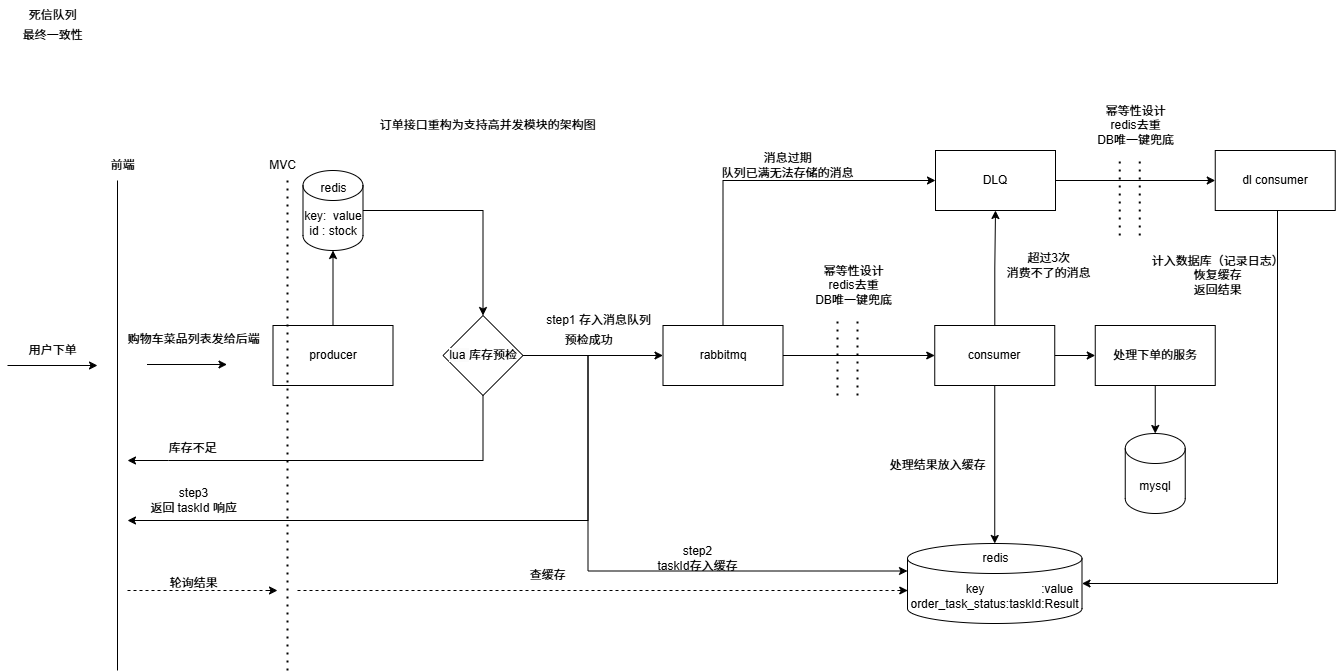
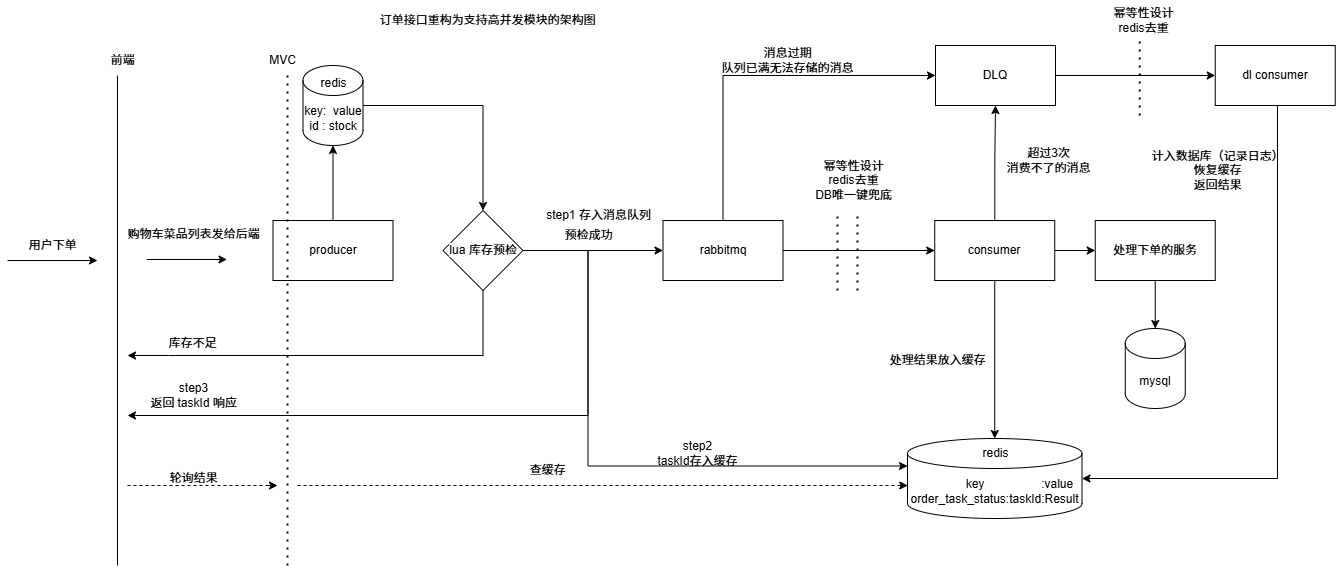
实现了死信消费者的逻辑
1，消费者处理逻辑：批量消费数据，恢复库存，返回结果，批量插入数据库，校验幂等性。
2，修改bug，由于幂等性，消息列表可能为空，加入列表非空判断防止动态sql拼接错误
3，探索利用spring重试消息机制失败。改为redis值自增+消费者端消息重发 的方案实现消息的重试。
4，对生产者的发送消息的方法做了重载
5，redis中添加了消息队列重试的常量键和幂等性键

diff --git a/sky-server/src/main/java/com/sky/mq/consumer/DeadLetterConsumer.java b/sky-server/src/main/java/com/sky/mq/consumer/DeadLetterConsumer.java
@@ -1,0 +1,123 @@
+package com.sky.mq.consumer;
+
+import com.alibaba.fastjson.JSON;
+import com.rabbitmq.client.Channel;
+import com.sky.dto.CartItemDTO;
+import com.sky.dto.OrdersSubmitDTO;
+import com.sky.entity.MqReturnedMessage;
+import com.sky.mapper.MqReturnedMessageMapper;
+import com.sky.result.Result;
+import com.sky.service.OrderService;
+import lombok.extern.slf4j.Slf4j;
+import org.springframework.amqp.core.Message;
+import org.springframework.amqp.rabbit.annotation.RabbitListener;
+import org.springframework.amqp.rabbit.core.RabbitTemplate;
+import org.springframework.beans.factory.annotation.Autowired;
+import org.springframework.data.redis.core.RedisTemplate;
+import org.springframework.stereotype.Component;
+
+import java.io.IOException;
+import java.time.Duration;
+import java.util.ArrayList;
+import java.util.List;
+import java.util.Map;
+
+import static com.sky.constant.RabbitMQConstant.*;
+import static com.sky.constant.RedisKeyConstant.*;
+
+@Component
+@Slf4j
+public class DeadLetterConsumer {
+    @Autowired
+    private RedisTemplate<String, String> strRedisTemplate;
+    @Autowired
+    private RedisTemplate<String, Integer> redisTemplate;
+    @Autowired
+    private OrderService orderService;
+    @Autowired
+    private MqReturnedMessageMapper mqReturnedMessageMapper;
+    @Autowired
+    private RabbitTemplate rabbitTemplate;
+
+    private static final Duration TTL = Duration.ofMinutes(10);
+    private static final Integer MAX_RETRY_COUNT = 3;
+
+    @RabbitListener(queues = DEAD_LETTER_QUEUE, containerFactory = "batchRabbitListenerContainerFactory")
+    public void consumeDeadLetterBatch(List<Message> messages, Channel channel) throws IOException {
+        if (messages == null || messages.isEmpty()) {
+            return;
+        }
+
+        long lastDeliveryTag = 0;
+        List<MqReturnedMessage> mqReturnedMessages = new ArrayList<>();
+
+        for (Message message : messages) {
+            String messageId = message.getMessageProperties().getMessageId();
+            String redisKey = DLQ_DEDUPLICATE_PREFIX_KEY + messageId;
+            String retryCountKey = DLQ_RETRY_KEY + messageId;
+
+            try {
+                // 1. 幂等性预检
+                Boolean isFirstConsume = strRedisTemplate.opsForValue().setIfAbsent(redisKey, "1", TTL);
+                redisTemplate.opsForValue().setIfAbsent(retryCountKey, 0, TTL);
+                if (Boolean.FALSE.equals(isFirstConsume)) {
+                    System.out.println("死信消息已处理过，跳过: " + messageId);
+                    continue;
+                }
+
+                // 2. 执行业务逻辑（恢复库存、记录结果等）
+                String body = new String(message.getBody());
+                List<Map<String, ?>> xDeathHeader = message.getMessageProperties().getXDeathHeader();
+                Map<String, ?> map = xDeathHeader.get(0);
+                String reason = (String) map.get("reason");
+                String queue = (String) map.get("queue");
+
+                MqReturnedMessage mqReturnedMessage = MqReturnedMessage.builder()
+                        .messageId(messageId)
+                        .exchange("原队列：" + queue)
+                        .routingKey("来自死信队列的消息")
+                        .replyCode(300)
+                        .replyText(reason)
+                        .messageBody(body)
+                        .build();
+                mqReturnedMessages.add(mqReturnedMessage);
+
+                // 恢复库存
+                OrdersSubmitDTO ordersSubmitDTO = JSON.parseObject(body, OrdersSubmitDTO.class);
+                List<CartItemDTO> cartItems = ordersSubmitDTO.getCartItems();
+                orderService.restoreCacheStock(cartItems);
+
+                // 返回消息处理结果
+                String resultString = JSON.toJSONString(Result.error("下单失败，请重试"));
+                strRedisTemplate.opsForValue().set(ORDER_TASK_RESULT_PREFIX_KEY + messageId, resultString, TTL);
+
+            } catch (Exception e) {
+                // 3. 发生异常，获取当前消息的重试次数
+                Long retryCount = redisTemplate.opsForValue().increment(retryCountKey);
+                redisTemplate.expire(retryCountKey, TTL);
+
+                if (retryCount != null && retryCount < MAX_RETRY_COUNT) {
+                    // 临时性故障：删除幂等记录，允许下次重试
+                    strRedisTemplate.delete(redisKey);
+                    rabbitTemplate.send(DEAD_LETTER_EXCHANGE, DEAD_LETTER_ROUTING_KEY, message);
+                    System.err.println(String.format("消息 %s 处理失败，第 %d 次重试", messageId, retryCount));
+                } else {
+                    // 永久性故障：保留幂等记录，直接 ACK，防止死循环！
+                    System.err.println(String.format("消息 %s 重试超限，确认为永久失败，直接丢弃并记录日志", messageId));
+
+                }
+            } finally {
+                lastDeliveryTag = message.getMessageProperties().getDeliveryTag();
+            }
+        }
+
+        // 批量落库
+        if (mqReturnedMessages != null && !mqReturnedMessages.isEmpty()) {
+            mqReturnedMessageMapper.insertBatch(mqReturnedMessages);
+        }
+
+        // 4. 批量手动 ACK
+        // 无论是处理成功、重复消费，还是重试超限的“死刑”消息，都统一在这里确认
+        channel.basicAck(lastDeliveryTag, true);
+    }
+}

diff --git a/sky-server/src/main/java/com/sky/mq/consumer/OrderSubmitConsumer.java b/sky-server/src/main/java/com/sky/mq/consumer/OrderSubmitConsumer.java
@@ -5,6 +5,7 @@ import com.rabbitmq.client.Channel;
 import com.sky.context.BaseContext;
 import com.sky.dto.OrderSubmitBaseDTO;
 import com.sky.mapper.IdempotencyMapper;
+import com.sky.mq.producer.OrderSubmitProducer;
 import com.sky.result.Result;
 import com.sky.service.OrderService;
 import com.sky.vo.OrderSubmitVO;
@@ -22,10 +23,8 @@ import java.io.IOException;
 import java.time.Duration;
 import java.util.concurrent.TimeUnit;
 
-import static com.sky.constant.RabbitMQConstant.CONSUMER_ORDER_HEADER;
-import static com.sky.constant.RabbitMQConstant.ORDER_QUEUE;
-import static com.sky.constant.RedisKeyConstant.DEDUPLICATE_PREFIX_KEY;
-import static com.sky.constant.RedisKeyConstant.ORDER_TASK_RESULT_PREFIX_KEY;
+import static com.sky.constant.RabbitMQConstant.*;
+import static com.sky.constant.RedisKeyConstant.*;
 
 @Component
 @Slf4j
@@ -36,7 +35,11 @@ public class OrderSubmitConsumer {
     @Autowired
     private RedisTemplate<String, String> strRedisTemplate;
     @Autowired
+    private RedisTemplate<String, Integer> redisTemplate;
+    @Autowired
     private IdempotencyMapper idempotencyMapper;
+    @Autowired
+    private OrderSubmitProducer orderSubmitProducer;
 
     private static final Duration TTL = Duration.ofMinutes(10);
 
@@ -62,7 +65,9 @@ public class OrderSubmitConsumer {
             log.warn("调试信息，根据幂等性，Redis 拦截消费过的消息: {}", messageId);
             channel.basicAck(deliveryTag, false);
         } else {
+            String retryKey = ORDER_QUEUE_RETRY_KEY + messageId;
             try {
+                redisTemplate.opsForValue().setIfAbsent(retryKey, -1, TTL);
                 // 数据库拦截处理过的消息
                 idempotencyMapper.insert(messageId);
                 this.processOrder(new String(message.getBody()), userId, messageId);
@@ -74,12 +79,20 @@ public class OrderSubmitConsumer {
                 channel.basicAck(deliveryTag, false);
             } catch (Exception e) {
                 log.error("调试信息：业务处理失败: ", e);
-                channel.basicNack(deliveryTag, false, true);
+                Long retryCount = redisTemplate.opsForValue().increment(retryKey);
+                if (retryCount > 3) {
+                    channel.basicNack(deliveryTag, false, false);
+                } else {
+                    orderSubmitProducer.sendMessage(userId, messageId, message);
+                    channel.basicAck(deliveryTag, false);
+                }
+                throw new RuntimeException("消息消费失败", e);
             }
         }
     }
 
-    private void processOrder(String messageJson, Long userId, String taskId) {
+    private void processOrder(String messageJson, Long userId, String taskId) throws ArithmeticException {
+//        int i = 1 / 0; // 模拟消息进入死信队列
         OrderSubmitBaseDTO orderSubmitBaseDTO = JSON.parseObject(messageJson, OrderSubmitBaseDTO.class);
         log.info("调试信息，收到订单消息。taskId : {}", taskId);
         String key = ORDER_TASK_RESULT_PREFIX_KEY + taskId;

diff --git a/sky-server/src/main/java/com/sky/mq/producer/OrderSubmitProducer.java b/sky-server/src/main/java/com/sky/mq/producer/OrderSubmitProducer.java
@@ -84,6 +84,29 @@ public class OrderSubmitProducer {
 
     }
 
+    public void sendMessage(Long userId, String messageId, Message message){
+        // 设置请求头
+        MessagePostProcessor messagePostProcessor = msg -> {
+            msg.getMessageProperties().setHeader(CONSUMER_ORDER_HEADER, userId);
+            msg.getMessageProperties().setMessageId(messageId);
+            return msg;
+        };
+
+        String messageJson = new String(message.getBody());
+
+        // 设置 messageId 到 CorrelationData
+        CustomCorrelationData correlationData = new CustomCorrelationData(messageId, userId, messageJson);
+
+        rabbitmqTemplate.convertAndSend(
+                ORDER_EXCHANGE,
+                ORDER_ROUTING_KEY,
+                messageJson,
+                messagePostProcessor,
+                correlationData
+        );
+        System.out.println("消息发送成功: " + messageJson);
+    }
+
     private void saveResultToCache(String taskId) {
         String pollKey = ORDER_TASK_RESULT_PREFIX_KEY + taskId;
         OrderSubmitVO orderSubmitVO = OrderSubmitVO.builder()

diff --git a/sky-server/src/main/java/com/sky/task/OrderTask.java b/sky-server/src/main/java/com/sky/task/OrderTask.java
@@ -105,9 +105,12 @@ public class OrderTask {
                 OrdersSubmitBakDTO ordersSubmitBakDTO = JSON.parseObject(message, OrdersSubmitBakDTO.class);
                 String messageId = ordersSubmitBakDTO.getMessageId();
                 MqReturnedMessage mqReturnedMessage = MqReturnedMessage.builder()
-                        .messageBody(message)
                         .messageId(messageId)
+                        .exchange("无法路由到交换机")
+                        .routingKey("无法路由到交换机")
+                        .replyCode(1000)
                         .replyText("无法访问到消息队列交换机")
+                        .messageBody(message)
                         .build();
                 list.add(mqReturnedMessage);
 

diff --git a/sky-common/src/main/java/com/sky/constant/RedisKeyConstant.java b/sky-common/src/main/java/com/sky/constant/RedisKeyConstant.java
@@ -10,4 +10,7 @@ public class RedisKeyConstant {
     public static final String ORDER_TASK_RESULT_PREFIX_KEY = "order_task_result:";
     public static final String DEDUPLICATE_PREFIX_KEY = "deduplicate:";
     public static final String EXCEPTION_MESSAGE_KEY = "exception_message";
+    public static final String DLQ_DEDUPLICATE_PREFIX_KEY = "dlq:deduplicate:";
+    public static final String DLQ_RETRY_KEY = "dlq:retry:";
+    public static final String ORDER_QUEUE_RETRY_KEY = "order_queue:retry:";
 }

diff --git a/sky-server/src/main/java/com/sky/mapper/MqReturnedMessageMapper.java b/sky-server/src/main/java/com/sky/mapper/MqReturnedMessageMapper.java
@@ -3,6 +3,7 @@ package com.sky.mapper;
 import com.sky.entity.MqReturnedMessage;
 import org.apache.ibatis.annotations.Insert;
 import org.apache.ibatis.annotations.Mapper;
+import org.apache.ibatis.annotations.Param;
 
 import java.util.List;
 
@@ -13,5 +14,5 @@ public interface MqReturnedMessageMapper {
             "VALUES (#{messageId}, #{exchange}, #{routingKey}, #{replyCode}, #{replyText}, #{messageBody})")
     boolean insert(MqReturnedMessage mqReturnedMessage);
 
-    boolean insertBatch(List<MqReturnedMessage> mqReturnedMessagesList);
+    boolean insertBatch(@Param("mqReturnedMessagesList") List<MqReturnedMessage> mqReturnedMessagesList);
 }